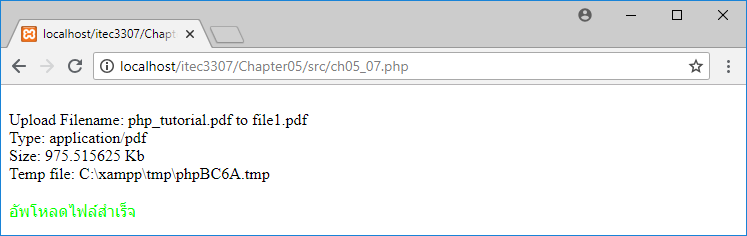
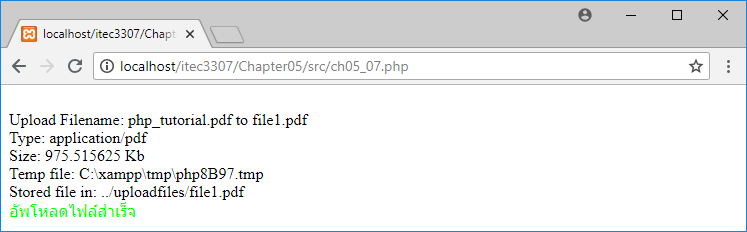
update 16-06-2018 10:59 AM

diff --git a/Chapter05/src/ch05_07.php b/Chapter05/src/ch05_07.php
@@ -21,6 +21,7 @@
     $sql="UPDATE UploadFiles SET FileName = '$data' 
             WHERE FileID = '$txtFileID';"; 
     mysqli_query($conn, $sql);
+    echo "Stored file in: "."../uploadfiles/".$data;
     echo "<br><font color='#00FF00'>อัพโหลดไฟล์สำเร็จ</font><br>";
     } else {
         echo "<br><font color='#FF0000'>ไม่สามารถอัพโหลดไฟล์ได้<br></font>";

diff --git a/Chapter05/LAB0503.md b/Chapter05/LAB0503.md
@@ -112,6 +112,7 @@ if(!empty($_FILES['txtPhoto'])){
     $sql="UPDATE UploadFiles SET FileName = '$data' 
             WHERE FileID = '$txtFileID';"; 
     mysqli_query($conn, $sql);
+    echo "Stored file in: "."../uploadfiles/".$data;
     echo "<br><font color='#00FF00'>อัพโหลดไฟล์สำเร็จ</font><br>";
     } else {
         echo "<br><font color='#FF0000'>ไม่สามารถอัพโหลดไฟล์ได้<br></font>";
@@ -127,8 +128,8 @@ if(!empty($_FILES['txtPhoto'])){
 
 ตำแหน่งในเว็บเซิร์ฟเวอร์ Chapter05/src/uploadfiles
 
-<img src=output/ch05_07_2.png>
+<img src=output/ch05_07_1.png>
 
 รายการบันทึกในตารางข้อมูล db_chapter05 --> UploadFiles
 
-<img src=output/ch05_07_3.png>
+<img src=output/ch05_07_2.png>
